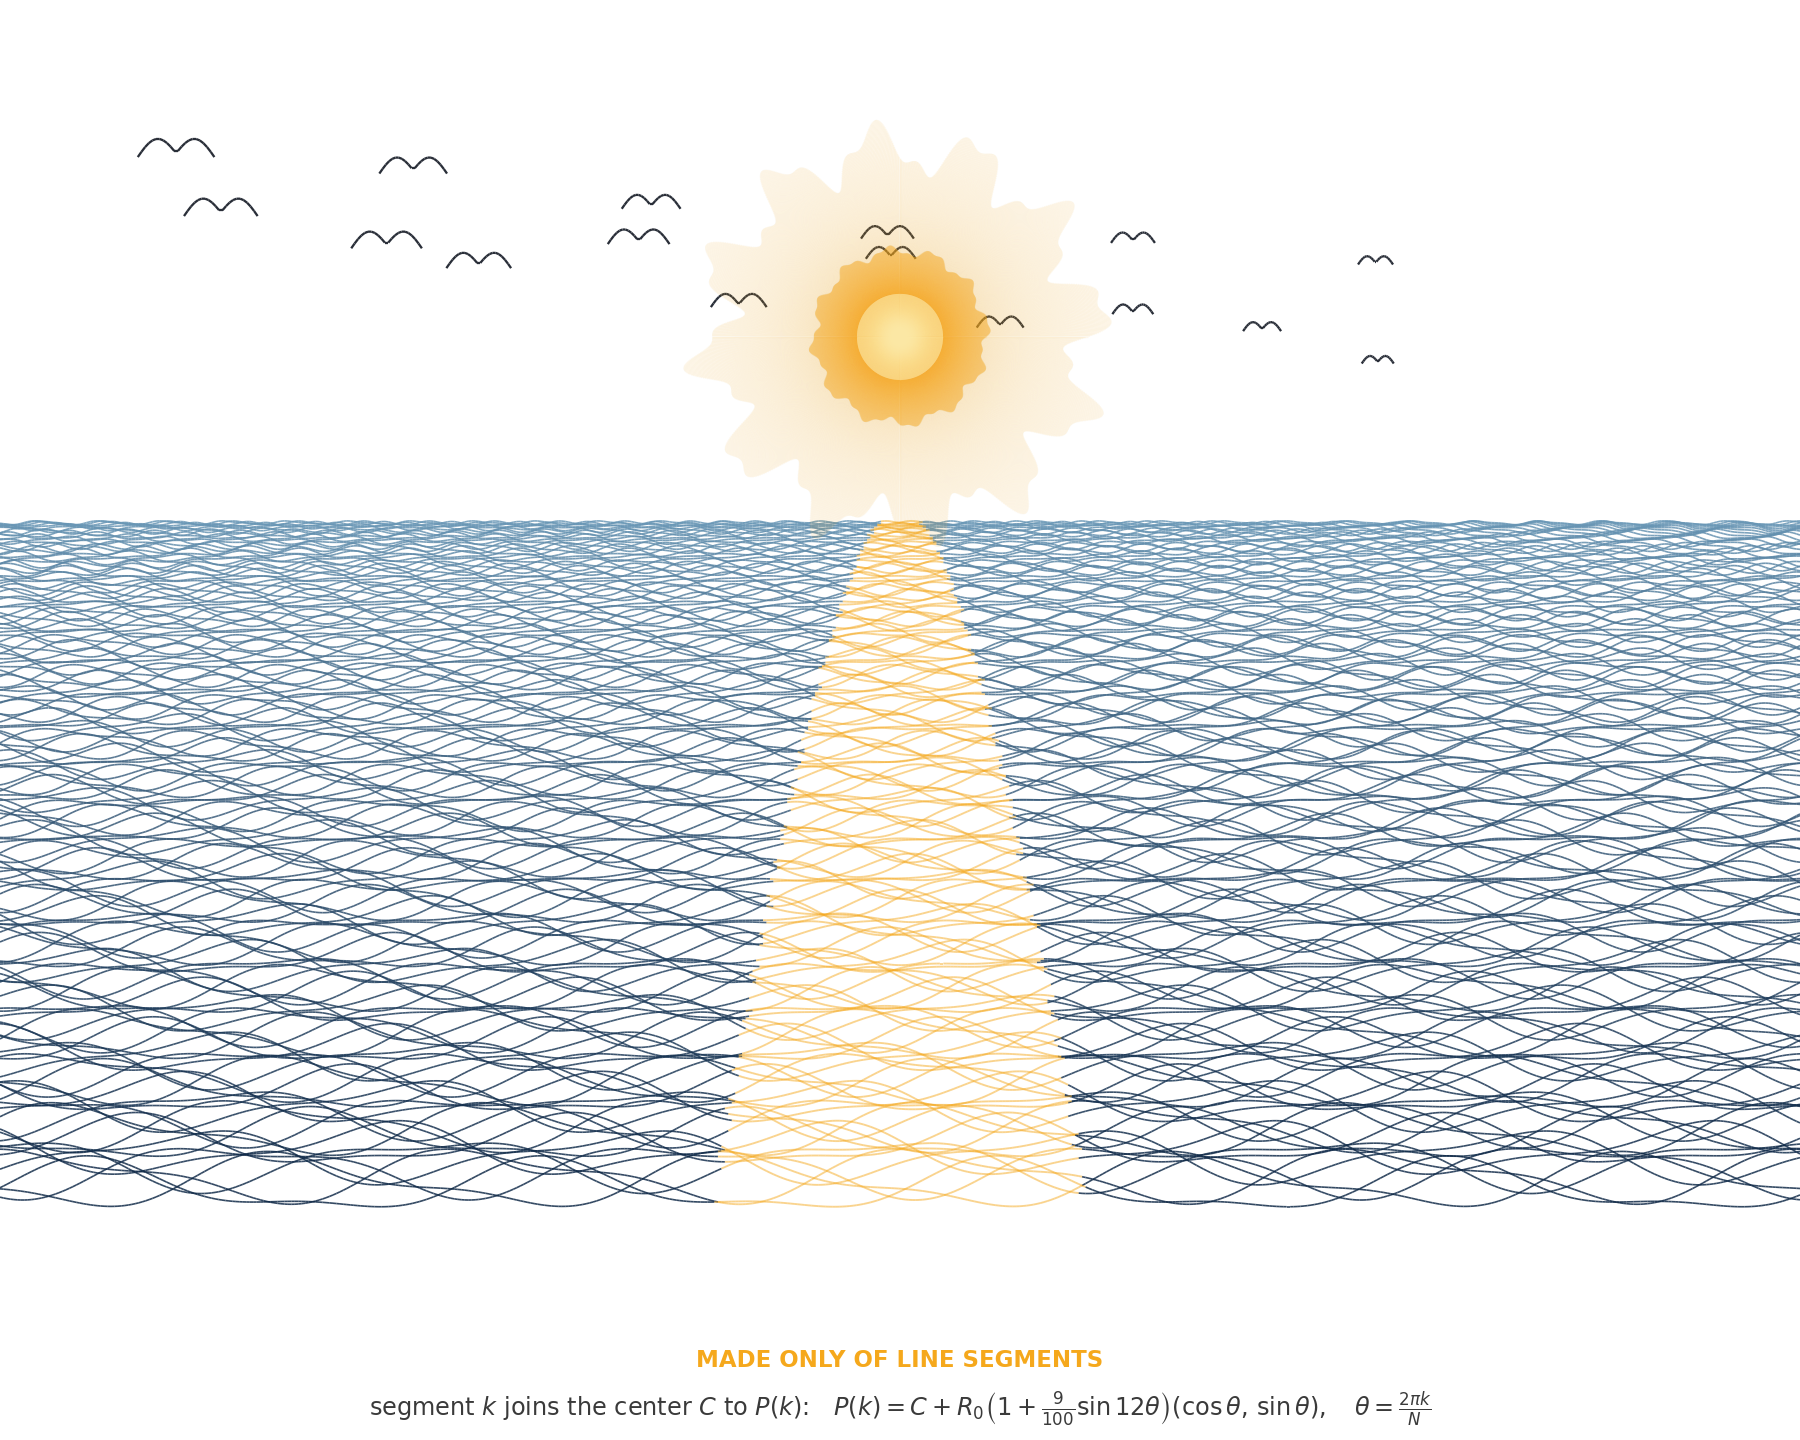
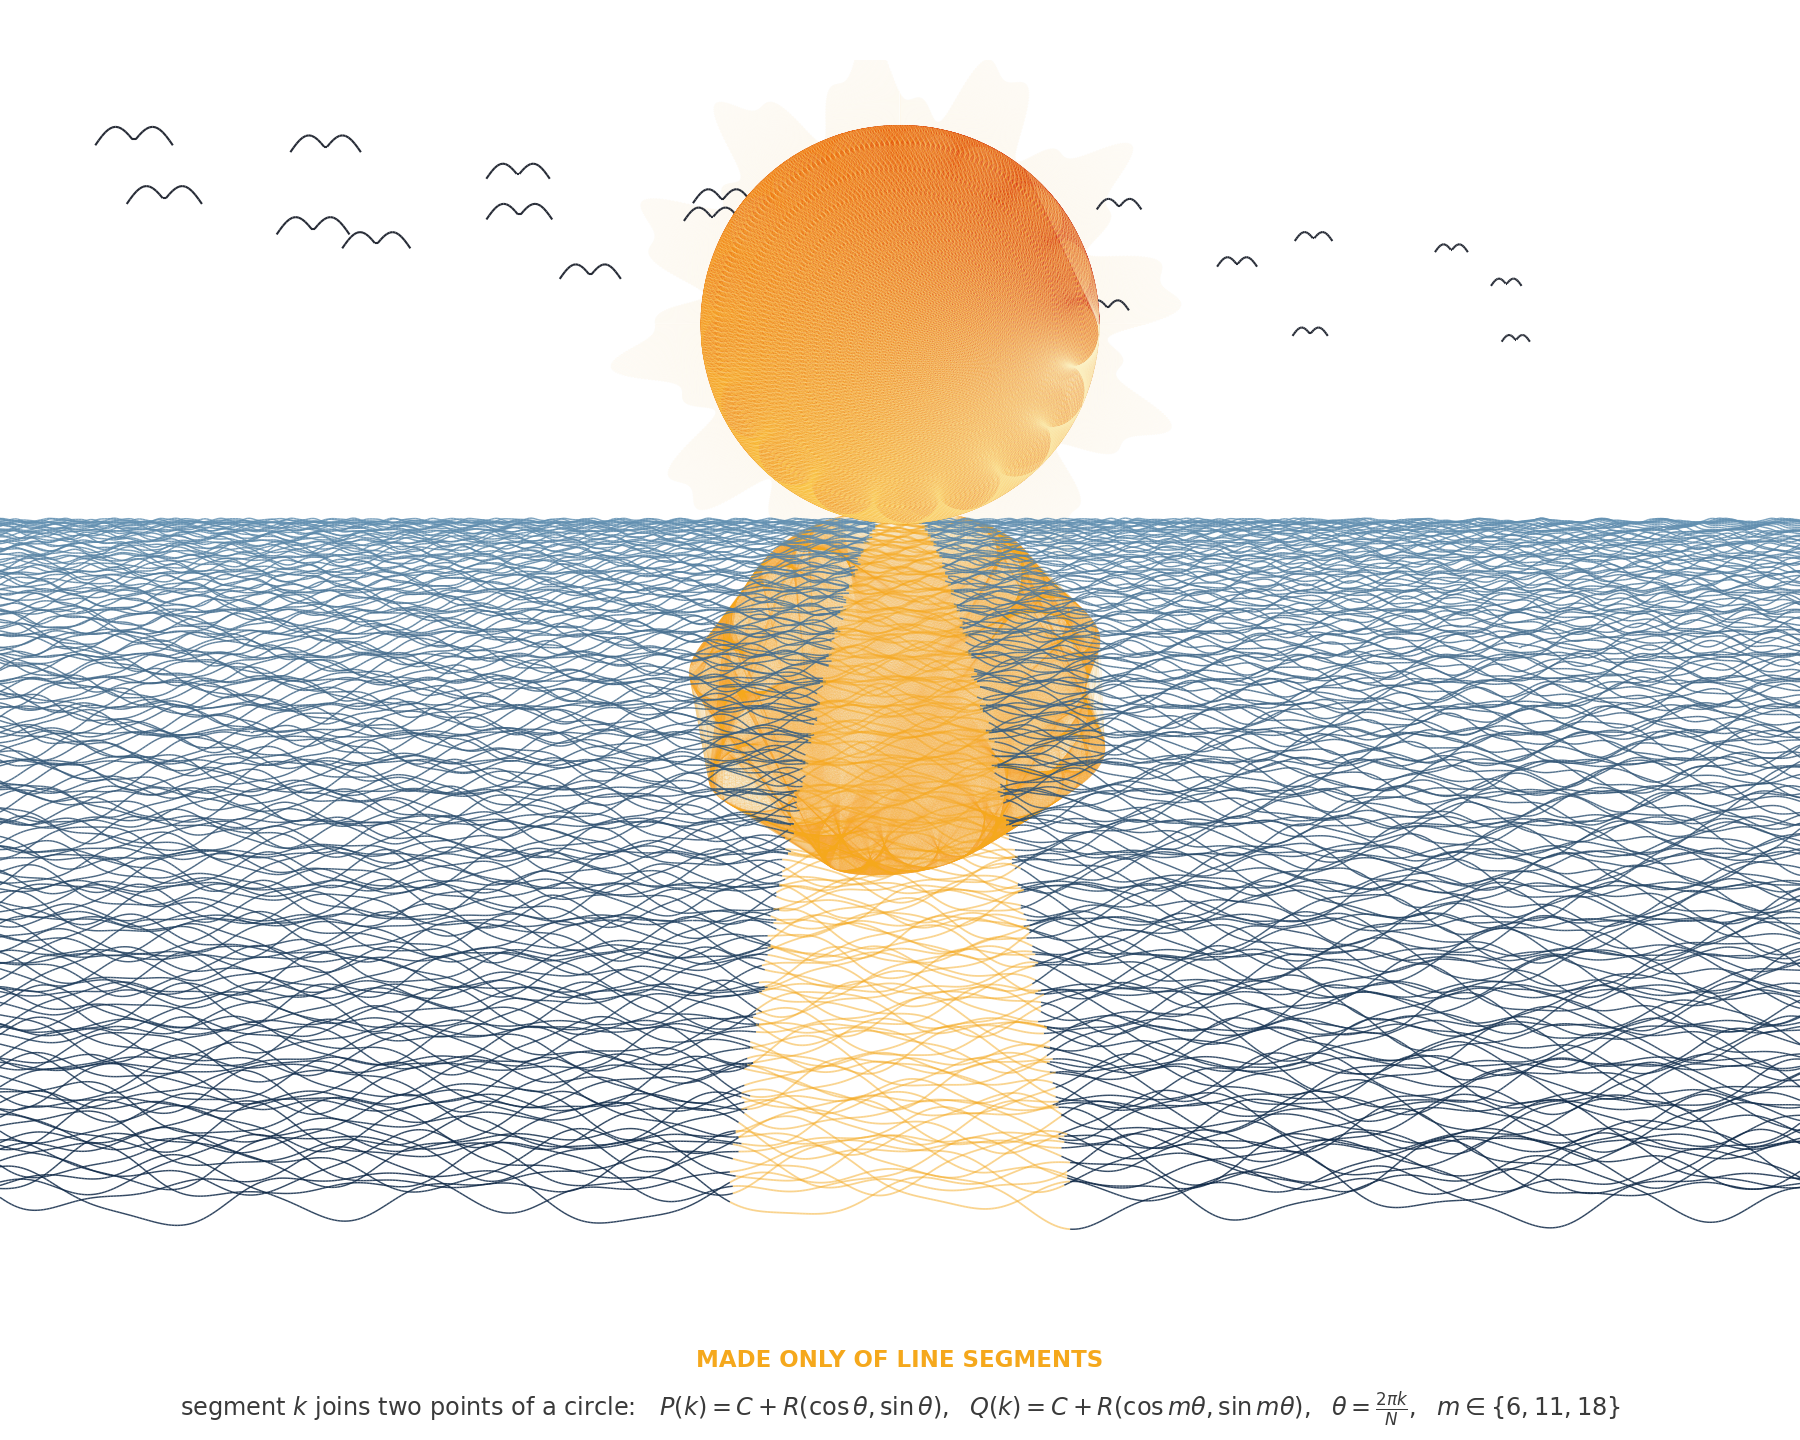
landscape: richer sun (chord caustics) + rippled reflection
Make it more complex/intricate: replace the radial-ray sun with layered
CHORD CAUSTICS -- segment k joins the circle points at angle theta and
m*theta for m in {6,11,18} -- colour-graded by index, so the envelope
forms an ornate scalloped rose. Add the sun's mirrored, rippled reflection
shimmering on the water and densen the sea. Still only line segments.

diff --git a/landscape.py b/landscape.py
@@ -1,18 +1,17 @@
 #!/usr/bin/env python3
 """
-landscape.py — a nature scene made only of line segments, in the style of
-Hamid Naderi Yeganeh.
+landscape.py — a nature scene made only of line segments, after the manner
+of Hamid Naderi Yeganeh.
 
-Nothing is drawn freehand: the whole picture is families of straight line
-segments whose endpoints are explicit trigonometric functions of an index
-k. Where the segments crowd, the plane darkens; where they fan out, it
-glows. Three families make a sunrise over the sea:
+Every mark is a straight segment whose endpoints are trigonometric functions
+of an index k. Where segments crowd, their envelope glows; the picture lives
+in the caustics. A sunrise over the sea:
 
-  * the sun    — radial segments to a wavy corona
-  * the sea    — stacked wave segments, gold where the sun reflects
-  * the birds  — small twin-arc segment fans
-
-The k-th segment of a family joins A(k) to B(k); see the caption.
+  * the sun          — chord caustics of a circle (k-th segment joins the
+                       points at angles θ and mθ), layered and colour-graded
+  * its reflection   — the same segments mirrored and rippled on the water
+  * the sea          — stacked interfering wave-segment families
+  * the birds        — small twin-arc segment fans
 """
 
 import os
@@ -22,103 +21,122 @@ import matplotlib
 matplotlib.use("Agg")
 import matplotlib.pyplot as plt
 from matplotlib.collections import LineCollection
+from matplotlib.colors import LinearSegmentedColormap
 
 OUT = os.path.join(os.path.dirname(os.path.abspath(__file__)), "landscape.png")
 
+WARM = LinearSegmentedColormap.from_list("warm", [
+    (0.78, 0.09, 0.12), (0.94, 0.42, 0.06),
+    (0.99, 0.76, 0.23), (1.00, 0.97, 0.82)])
+DEEP = np.array([0.05, 0.15, 0.27])
+SHAL = np.array([0.40, 0.58, 0.71])
 GOLD = np.array([0.96, 0.66, 0.11])
-DEEP = np.array([0.06, 0.16, 0.28])
-SHAL = np.array([0.42, 0.60, 0.72])
 
 
-def sun_rays(center, R, n=1200, spike=0.09):
-    """Segment k joins the center C to a point on a spiked circle; the many
-    segments crowd near C into a bright disc that softens toward the rim."""
+def sun_caustic(center, R, n=4200, mults=((6, 0.0), (11, 0.35), (18, 0.9))):
+    """Chord caustics: segment k joins the circle points at angle θ and mθ."""
+    k = np.arange(1, n + 1)
+    th = 2 * np.pi * k / n
+    seg_list, idx_list = [], []
+    for m, ph in mults:
+        b = m * th + ph
+        p = np.stack([center[0] + R * np.cos(th), center[1] + R * np.sin(th)], 1)
+        q = np.stack([center[0] + R * np.cos(b), center[1] + R * np.sin(b)], 1)
+        seg_list.append(np.stack([p, q], 1))
+        idx_list.append((k / n + m) % 1.0)          # colour phase per family
+    return np.concatenate(seg_list), np.concatenate(idx_list)
+
+
+def corona(center, R, n=1400, spike=0.1):
     k = np.arange(1, n + 1)
     t = 2 * np.pi * k / n
     outer = R * (1 + spike * np.sin(12 * t) + 0.4 * spike * np.sin(31 * t))
-    bx = center[0] + outer * np.cos(t)
-    by = center[1] + outer * np.sin(t)
     a = np.stack([np.full(n, center[0]), np.full(n, center[1])], 1)
-    b = np.stack([bx, by], 1)
+    b = np.stack([center[0] + outer * np.cos(t), center[1] + outer * np.sin(t)], 1)
     return np.stack([a, b], 1)
 
 
-def sea(ax, horizon, sun_x, x0=-2.3, x1=2.3, rows=150, samples=520):
+def reflect(segs, horizon):
+    """Mirror segments across the horizon and ripple them like water."""
+    s = segs.copy()
+    s[:, :, 1] = 2 * horizon - s[:, :, 1]            # flip below the horizon
+    depth = np.clip(horizon - s[:, :, 1], 0, None)
+    s[:, :, 1] = horizon - depth * 0.92              # slight foreshortening
+    s[:, :, 0] += (0.012 + 0.05 * depth) * np.sin(17 * depth + 5 * s[:, :, 0])
+    keep = (s[:, :, 1] < horizon).all(axis=1)        # only what lands on water
+    return s[keep]
+
+
+def sea(ax, horizon, sun_x, x0=-2.35, x1=2.35, rows=200, samples=620):
     x = np.linspace(x0, x1, samples)
-    blue_segs, gold_segs = [], []
-    blue_cols = []
+    blue_segs, blue_cols, gold_segs = [], [], []
     for i in range(rows):
-        u = i / (rows - 1)                               # 0 horizon .. 1 near
-        y0 = horizon - (0.015 + 1.7 * u ** 1.45)
-        amp = 0.004 + 0.055 * u
-        wl = 0.16 + 1.0 * u
-        ph = 2.7 * i
+        u = i / (rows - 1)
+        y0 = horizon - (0.012 + 1.75 * u ** 1.5)
+        amp = 0.004 + 0.058 * u
+        wl = 0.15 + 1.05 * u
+        ph = 2.6 * i
         y = (y0 + amp * np.sin(2 * np.pi * x / wl + ph)
-             + 0.4 * amp * np.sin(2 * np.pi * x / (wl * 0.5) + 1.7 * ph))
+             + 0.45 * amp * np.sin(2 * np.pi * x / (wl * 0.5) + 1.7 * ph)
+             + 0.2 * amp * np.sin(2 * np.pi * x / (wl * 0.27) + 0.6 * ph))
         pts = np.stack([x, y], 1)
         seg = np.stack([pts[:-1], pts[1:]], 1)
         mid = 0.5 * (x[:-1] + x[1:])
-        # sun's reflected path: a widening column under the sun -> gold
-        halfw = 0.05 + 0.42 * u
-        gold_mask = np.abs(mid - sun_x) < halfw
+        gold_mask = np.abs(mid - sun_x) < (0.045 + 0.4 * u)
         gold_segs.append(seg[gold_mask])
         blue_segs.append(seg[~gold_mask])
         col = DEEP * u + SHAL * (1 - u)
         blue_cols.append(np.tile(col, ((~gold_mask).sum(), 1)))
-
-    blue = np.concatenate(blue_segs)
-    ax.add_collection(LineCollection(blue, colors=np.concatenate(blue_cols),
-                                     linewidths=0.8, alpha=0.85))
-    gold = np.concatenate(gold_segs)
-    ax.add_collection(LineCollection(gold, colors=GOLD, linewidths=0.9, alpha=0.5))
+    ax.add_collection(LineCollection(np.concatenate(blue_segs),
+                      colors=np.concatenate(blue_cols), linewidths=0.7, alpha=0.85))
+    ax.add_collection(LineCollection(np.concatenate(gold_segs),
+                      colors=GOLD, linewidths=0.85, alpha=0.5))
 
 
-def birds(ax, n=16):
+def birds(ax, n=22):
     j = np.arange(n)
-    r = np.random.default_rng(3)
-    bx = -1.85 + 3.4 * (j / n) + 0.12 * np.sin(4.1 * j)
-    by = 0.98 - 0.34 * (j / n) + 0.13 * np.sin(2.3 * j + 1)
-    s = 0.045 * (0.55 + 0.9 * (1 - j / n))               # nearer birds bigger
+    bx = -2.0 + 3.9 * (j / n) + 0.12 * np.sin(4.1 * j)
+    by = 1.02 - 0.30 * (j / n) + 0.14 * np.sin(2.3 * j + 1)
+    s = 0.045 * (0.5 + 1.0 * (1 - j / n))
+    t = np.linspace(-1, 1, 24)
     segs = []
-    t = np.linspace(-1, 1, 22)
     for i in j:
         wx = bx[i] + s[i] * 1.5 * t
         wy = by[i] + s[i] * 0.6 * np.abs(np.sin(np.pi * t)) - s[i] * 0.15 * t ** 2
         pts = np.stack([wx, wy], 1)
         segs.append(np.stack([pts[:-1], pts[1:]], 1))
     ax.add_collection(LineCollection(np.concatenate(segs),
-                                     colors=(0.16, 0.18, 0.22), linewidths=1.1))
+                      colors=(0.15, 0.17, 0.21), linewidths=1.0))
 
 
 def main():
     fig = plt.figure(figsize=(12, 9.6), dpi=150, facecolor="white")
     ax = fig.add_axes([0.0, 0.11, 1.0, 0.88])
-    ax.set_xlim(-2.3, 2.3)
-    ax.set_ylim(-1.7, 1.35)
+    ax.set_xlim(-2.35, 2.35)
+    ax.set_ylim(-1.72, 1.35)
     ax.set_aspect("equal")
     ax.axis("off")
 
     horizon = 0.16
-    sun_c = (0.0, 0.62)
+    sun_c = (0.0, 0.66)
+    segs, idx = sun_caustic(sun_c, 0.52)
 
-    # sun: three families of radial segments -> corona, disc, hot core
-    ax.add_collection(LineCollection(sun_rays(sun_c, 0.48, 1500, spike=0.12),
-                      colors=GOLD, linewidths=0.6, alpha=0.08, zorder=3))
-    ax.add_collection(LineCollection(sun_rays(sun_c, 0.22, 1500, spike=0.05),
-                      colors=GOLD, linewidths=0.7, alpha=0.16, zorder=4))
-    ax.add_collection(LineCollection(sun_rays(sun_c, 0.11, 800, spike=0.0),
-                      colors=(1.0, 0.92, 0.66), linewidths=0.7, alpha=0.22, zorder=5))
+    # reflection first (under everything), then sea, then the sun on top
+    ax.add_collection(LineCollection(reflect(segs, horizon),
+                      colors=GOLD, linewidths=0.25, alpha=0.08, zorder=1))
+    ax.add_collection(LineCollection(corona(sun_c, 0.64, spike=0.14),
+                      colors=GOLD, linewidths=0.5, alpha=0.05, zorder=2))
     sea(ax, horizon, sun_c[0])
+    lc = LineCollection(segs, array=idx, cmap=WARM, linewidths=0.3, alpha=0.32, zorder=6)
+    ax.add_collection(lc)
     birds(ax)
 
-    cap = (r"segment $k$ joins the center $C$ to $P(k)$:$\quad$"
-           r"$P(k)=C+R_0\left(1+\frac{9}{100}\sin 12\theta\right)"
-           r"(\cos\theta,\,\sin\theta),\quad \theta=\frac{2\pi k}{N}$")
-    fig.text(0.5, 0.055, "MADE ONLY OF LINE SEGMENTS",
-             ha="center", va="center", color=GOLD, fontsize=11,
-             fontfamily="sans-serif", fontweight="bold")
-    fig.text(0.5, 0.022, cap, ha="center", va="center", color="#3a3a3a",
-             fontsize=11.5)
+    cap = (r"segment $k$ joins two points of a circle:$\quad$"
+           r"$P(k)=C+R(\cos\theta,\sin\theta),\ \ Q(k)=C+R(\cos m\theta,\sin m\theta),"
+           r"\ \ \theta=\frac{2\pi k}{N},\ \ m\in\{6,11,18\}$")
+    fig.text(0.5, 0.055, "MADE ONLY OF LINE SEGMENTS", ha="center", va="center",
+             color=GOLD, fontsize=11, fontweight="bold")
+    fig.text(0.5, 0.022, cap, ha="center", va="center", color="#3a3a3a", fontsize=11.5)
 
     fig.savefig(OUT, facecolor="white")
     print("saved", OUT)